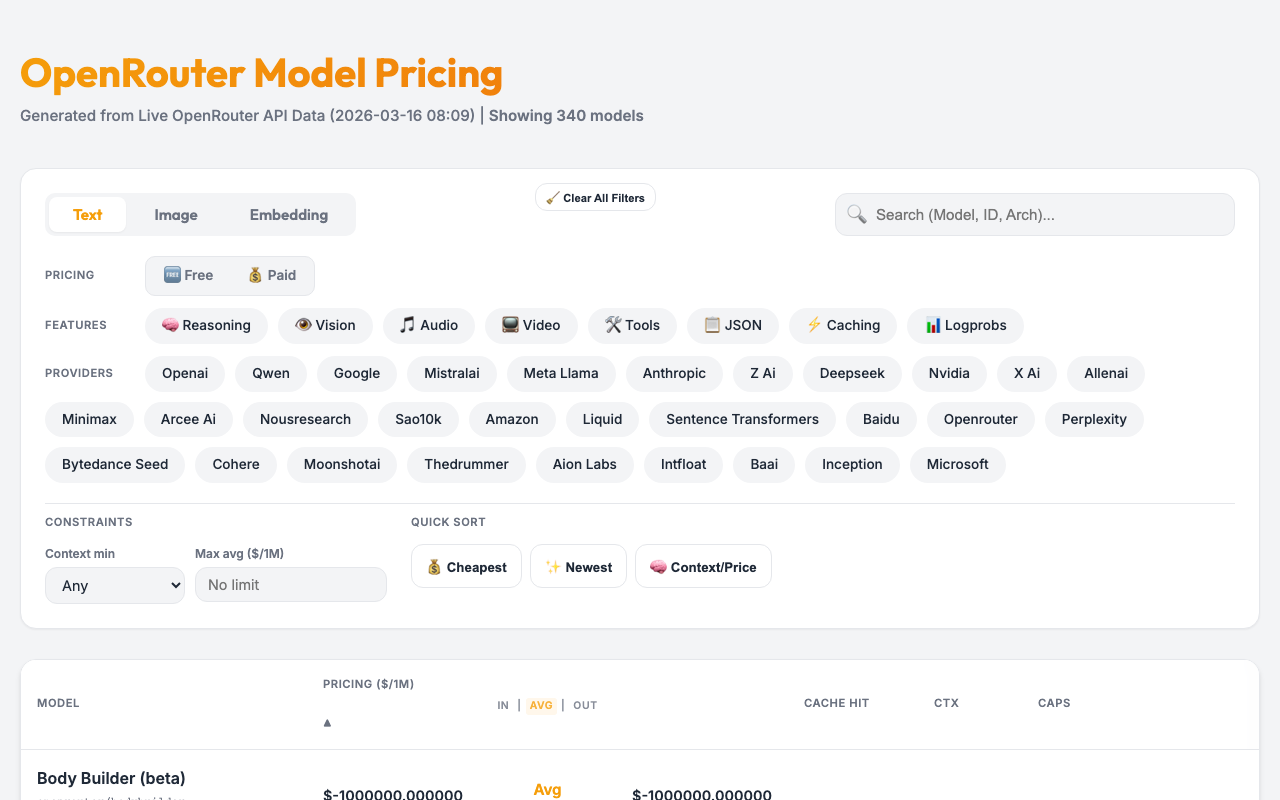
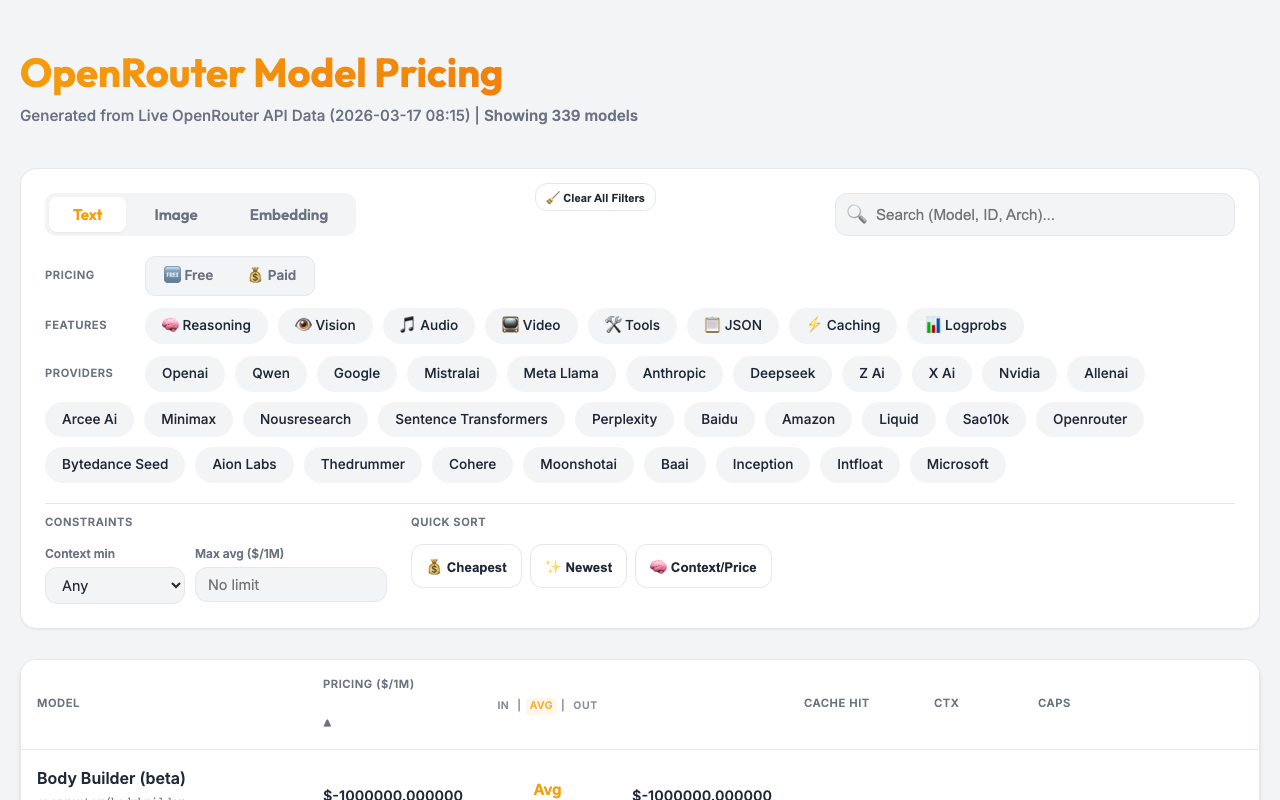
chore: automated pricing update (2026-03-17 08:15:43)
❌ Removed Models (1): meta-llama/llama-3.1-405b-instruct
🔄 Changed Models (11): meta-llama/llama-3.1-8b-instruct, moonshotai/kimi-k2.5, openai/gpt-5.3-chat, openai/gpt-5.3-codex, openai/gpt-5.4, openai/gpt-5.4-pro, qwen/qwen-2.5-coder-32b-instruct, qwen/qwen-plus, qwen/qwen-vl-max, qwen/qwen3-max, qwen/qwen3.5-flash-02-23

diff --git a/docs/index.html b/docs/index.html
@@ -634,7 +634,7 @@
     <div class="container">
         <header>
             <h1>OpenRouter Model Pricing</h1>
-            <div class="meta">Generated from Live OpenRouter API Data (2026-03-16 08:09)</div>
+            <div class="meta">Generated from Live OpenRouter API Data (2026-03-17 08:15)</div>
         </header>
 
         <div class="controls">
@@ -1179,20 +1179,14 @@
       },
       "per_request_limits": null,
       "supported_parameters": [
-        "frequency_penalty",
         "include_reasoning",
-        "logit_bias",
-        "logprobs",
         "max_tokens",
-        "presence_penalty",
         "reasoning",
         "response_format",
         "seed",
-        "stop",
         "structured_outputs",
         "tool_choice",
-        "tools",
-        "top_logprobs"
+        "tools"
       ],
       "default_parameters": {
         "temperature": null,
@@ -1238,20 +1232,14 @@
       },
       "per_request_limits": null,
       "supported_parameters": [
-        "frequency_penalty",
         "include_reasoning",
-        "logit_bias",
-        "logprobs",
         "max_tokens",
-        "presence_penalty",
         "reasoning",
         "response_format",
         "seed",
-        "stop",
         "structured_outputs",
         "tool_choice",
-        "tools",
-        "top_logprobs"
+        "tools"
       ],
       "default_parameters": {
         "temperature": null,
@@ -1348,18 +1336,12 @@
       },
       "per_request_limits": null,
       "supported_parameters": [
-        "frequency_penalty",
-        "logit_bias",
-        "logprobs",
         "max_tokens",
-        "presence_penalty",
         "response_format",
         "seed",
-        "stop",
         "structured_outputs",
         "tool_choice",
-        "tools",
-        "top_logprobs"
+        "tools"
       ],
       "default_parameters": {
         "temperature": null,
@@ -1682,8 +1664,8 @@
         "instruct_type": null
       },
       "pricing": {
-        "prompt": "0.0000001",
-        "completion": "0.0000004"
+        "prompt": "0.000000065",
+        "completion": "0.00000026"
       },
       "top_provider": {
         "context_length": 1000000,
@@ -1829,10 +1811,11 @@
       "description": "GPT-5.3-Codex is OpenAI\u2019s most advanced agentic coding model, combining the frontier software engineering performance of GPT-5.2-Codex with the broader reasoning and professional knowledge capabilities of GPT-5.2. It achieves state-of-the-art results on SWE-Bench Pro and strong performance on Terminal-Bench 2.0 and OSWorld-Verified, reflecting improved multi-language coding, terminal proficiency, and real-world computer-use skills. The model is optimized for long-running, tool-using workflows and supports interactive steering during execution, making it suitable for complex development tasks, debugging, deployment, and iterative product work.\n\nBeyond coding, GPT-5.3-Codex performs strongly on structured knowledge-work benchmarks such as GDPval, supporting tasks like document drafting, spreadsheet analysis, slide creation, and operational research across domains. It is trained with enhanced cybersecurity awareness, including vulnerability identification capabilities, and deployed with additional safeguards for high-risk use cases. Compared to prior Codex models, it is more token-efficient and approximately 25% faster, targeting professional end-to-end workflows that span reasoning, execution, and computer interaction.",
       "context_length": 400000,
       "architecture": {
-        "modality": "text+image->text",
+        "modality": "text+image+file->text",
         "input_modalities": [
           "text",
-          "image"
+          "image",
+          "file"
         ],
         "output_modalities": [
           "text"
@@ -2699,7 +2682,6 @@
         "parallel_tool_calls",
         "presence_penalty",
         "reasoning",
-        "reasoning_effort",
         "repetition_penalty",
         "response_format",
         "seed",
@@ -6990,9 +6972,9 @@
         "instruct_type": null
       },
       "pricing": {
-        "prompt": "0.0000012",
-        "completion": "0.000006",
-        "input_cache_read": "0.00000024"
+        "prompt": "0.00000078",
+        "completion": "0.0000039",
+        "input_cache_read": "0.000000156"
       },
       "top_provider": {
         "context_length": 262144,
@@ -13420,8 +13402,8 @@
         "instruct_type": null
       },
       "pricing": {
-        "prompt": "0.0000008",
-        "completion": "0.0000032"
+        "prompt": "0.00000052",
+        "completion": "0.00000208"
       },
       "top_provider": {
         "context_length": 131072,
@@ -13556,9 +13538,9 @@
         "instruct_type": null
       },
       "pricing": {
-        "prompt": "0.0000004",
-        "completion": "0.0000012",
-        "input_cache_read": "0.00000008"
+        "prompt": "0.00000026",
+        "completion": "0.00000078",
+        "input_cache_read": "0.000000052"
       },
       "top_provider": {
         "context_length": 1000000,
@@ -14651,24 +14633,21 @@
         "instruct_type": "chatml"
       },
       "pricing": {
-        "prompt": "0.00000020000000000000002",
-        "completion": "0.00000020000000000000002"
+        "prompt": "0.00000066",
+        "completion": "0.000001"
       },
       "top_provider": {
         "context_length": 32768,
-        "max_completion_tokens": 8192,
+        "max_completion_tokens": null,
         "is_moderated": false
       },
       "per_request_limits": null,
       "supported_parameters": [
         "frequency_penalty",
-        "logit_bias",
         "max_tokens",
-        "min_p",
         "presence_penalty",
         "repetition_penalty",
         "seed",
-        "stop",
         "temperature",
         "top_k",
         "top_p"
@@ -15803,7 +15782,6 @@
       "per_request_limits": null,
       "supported_parameters": [
         "frequency_penalty",
-        "logit_bias",
         "logprobs",
         "max_tokens",
         "min_p",
@@ -15818,51 +15796,6 @@
         "tools",
         "top_k",
         "top_logprobs",
-        "top_p"
-      ],
-      "default_parameters": {},
-      "expiration_date": null
-    },
-    {
-      "id": "meta-llama/llama-3.1-405b-instruct",
-      "canonical_slug": "meta-llama/llama-3.1-405b-instruct",
-      "hugging_face_id": "meta-llama/Meta-Llama-3.1-405B-Instruct",
-      "name": "Meta: Llama 3.1 405B Instruct",
-      "created": 1721692800,
-      "description": "The highly anticipated 400B class of Llama3 is here! Clocking in at 128k context with impressive eval scores, the Meta AI team continues to push the frontier of open-source LLMs.\n\nMeta's latest class of model (Llama 3.1) launched with a variety of sizes & flavors. This 405B instruct-tuned version is optimized for high quality dialogue usecases.\n\nIt has demonstrated strong performance compared to leading closed-source models including GPT-4o and Claude 3.5 Sonnet in evaluations.\n\nTo read more about the model release, [click here](https://ai.meta.com/blog/meta-llama-3-1/). Usage of this model is subject to [Meta's Acceptable Use Policy](https://llama.meta.com/llama3/use-policy/).",
-      "context_length": 131000,
-      "architecture": {
-        "modality": "text->text",
-        "input_modalities": [
-          "text"
-        ],
-        "output_modalities": [
-          "text"
-        ],
-        "tokenizer": "Llama3",
-        "instruct_type": "llama3"
-      },
-      "pricing": {
-        "prompt": "0.000004",
-        "completion": "0.000004"
-      },
-      "top_provider": {
-        "context_length": 131000,
-        "max_completion_tokens": null,
-        "is_moderated": false
-      },
-      "per_request_limits": null,
-      "supported_parameters": [
-        "frequency_penalty",
-        "logit_bias",
-        "max_tokens",
-        "min_p",
-        "presence_penalty",
-        "repetition_penalty",
-        "seed",
-        "stop",
-        "temperature",
-        "top_k",
         "top_p"
       ],
       "default_parameters": {},
@@ -18819,7 +18752,7 @@
   ],
   "other": []
 };
-        window.providerOptions = ['openai', 'qwen', 'google', 'mistralai', 'meta-llama', 'anthropic', 'z-ai', 'deepseek', 'nvidia', 'x-ai', 'allenai', 'minimax', 'arcee-ai', 'nousresearch', 'sao10k', 'amazon', 'liquid', 'sentence-transformers', 'baidu', 'openrouter', 'perplexity', 'bytedance-seed', 'cohere', 'moonshotai', 'thedrummer', 'aion-labs', 'intfloat', 'baai', 'inception', 'microsoft', 'stepfun', 'inflection', 'relace', 'morph', 'thenlper', 'cognitivecomputations', 'tencent', 'ai21', 'alibaba', 'alfredpros', 'upstage', 'xiaomi', 'eleutherai', 'prime-intellect', 'meituan', 'gryphe', 'tngtech', 'kwaipilot', 'ibm-granite', 'nex-agi', 'writer', 'mancer', 'deepcogito', 'alpindale', 'essentialai', 'anthracite-org', 'bytedance', 'undi95', 'switchpoint'];
+        window.providerOptions = ['openai', 'qwen', 'google', 'mistralai', 'meta-llama', 'anthropic', 'deepseek', 'z-ai', 'x-ai', 'nvidia', 'allenai', 'arcee-ai', 'minimax', 'nousresearch', 'sentence-transformers', 'perplexity', 'baidu', 'amazon', 'liquid', 'sao10k', 'openrouter', 'bytedance-seed', 'aion-labs', 'thedrummer', 'cohere', 'moonshotai', 'baai', 'inception', 'intfloat', 'microsoft', 'stepfun', 'relace', 'morph', 'inflection', 'thenlper', 'kwaipilot', 'writer', 'xiaomi', 'undi95', 'meituan', 'tencent', 'ai21', 'bytedance', 'alfredpros', 'mancer', 'deepcogito', 'switchpoint', 'prime-intellect', 'gryphe', 'alpindale', 'upstage', 'eleutherai', 'nex-agi', 'cognitivecomputations', 'essentialai', 'alibaba', 'ibm-granite', 'tngtech', 'anthracite-org'];
         let currentTab = 'text';
         let sortKey = 'price_avg';
         let sortAsc = true;
